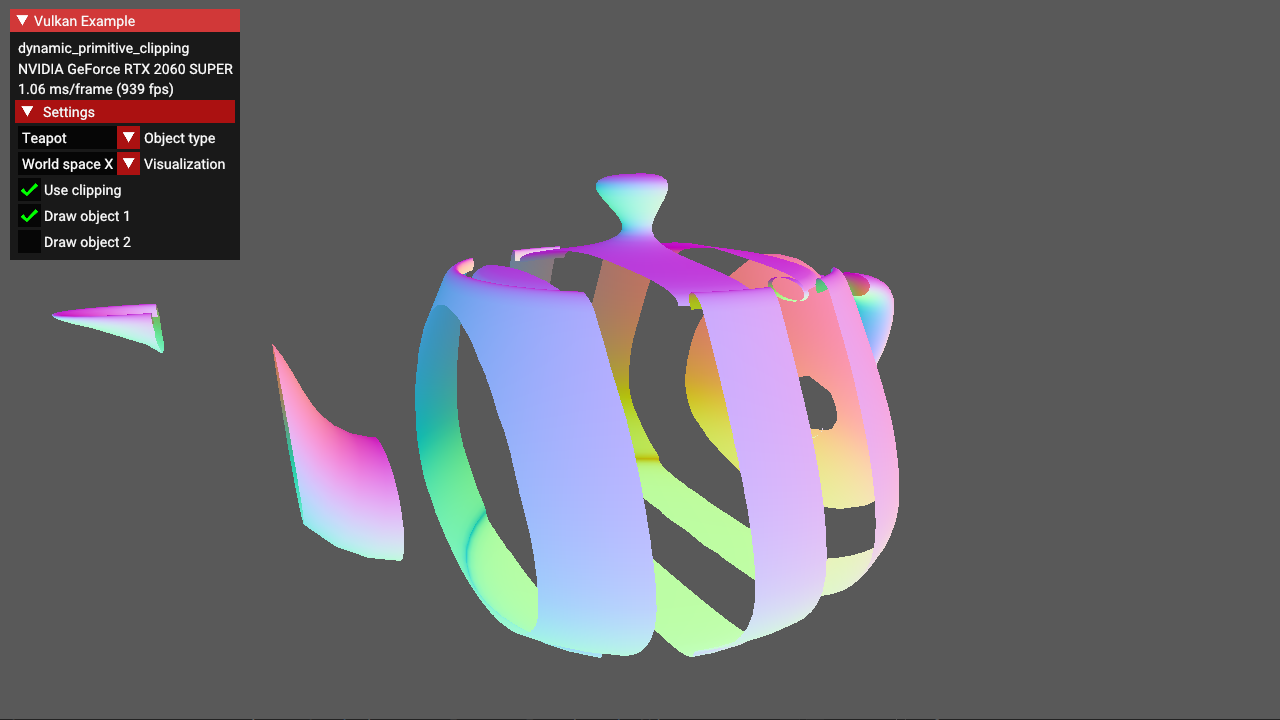
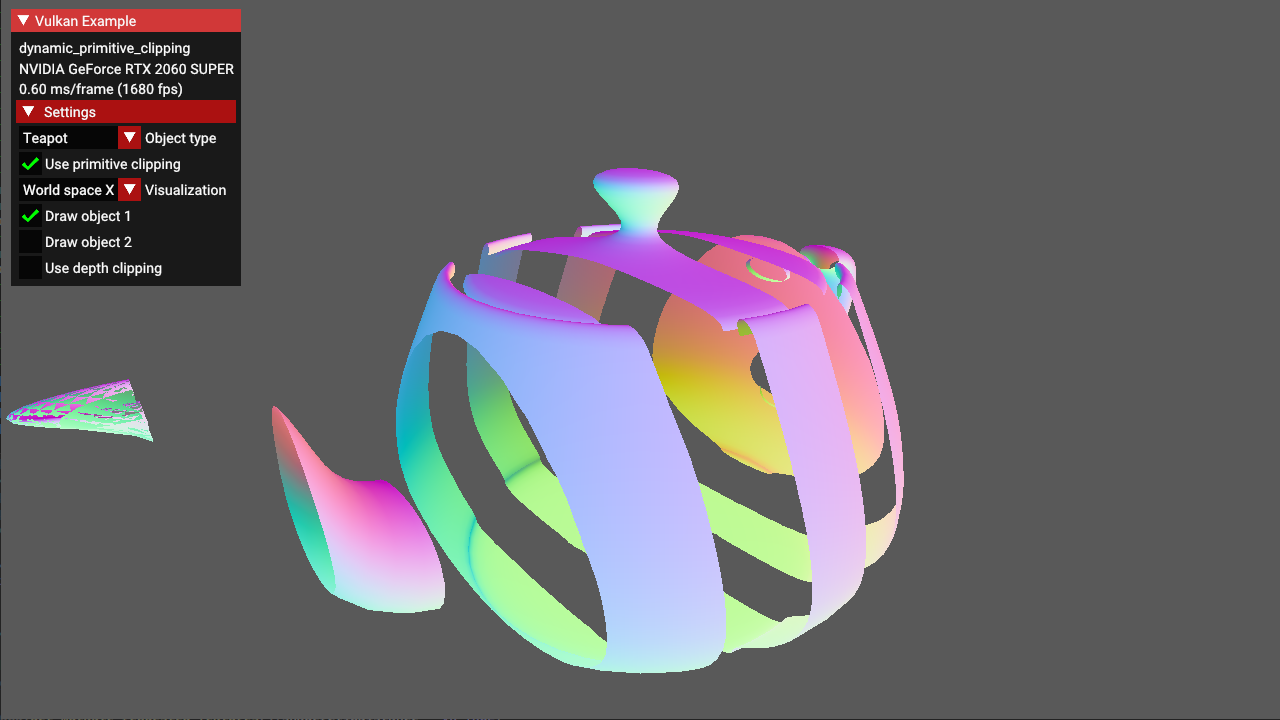
Decoupled primitive clipping from depth clipping.
Added primitive clipping using half-spaces.
Updated documentation to contain latest changes.

Changed region(s): [[0.1875, 0.2139, 0.7188, 0.9472], [0.0, 0.0, 0.1875, 0.4889], [0.0, 0.5194, 0.125, 0.6111]]

diff --git a/samples/extensions/dynamic_primitive_clipping/dynamic_primitive_clipping.cpp b/samples/extensions/dynamic_primitive_clipping/dynamic_primitive_clipping.cpp
@@ -25,7 +25,10 @@ DynamicPrimitiveClipping::DynamicPrimitiveClipping()
 {
 	title = "Dynamic primitive clipping";
 	set_api_version(VK_API_VERSION_1_1);
+
+	// Extensions required by vkCmdSetDepthClipEnableEXT().
 	add_instance_extension(VK_KHR_GET_PHYSICAL_DEVICE_PROPERTIES_2_EXTENSION_NAME);
+	add_device_extension(VK_EXT_DEPTH_CLIP_ENABLE_EXTENSION_NAME);
 	add_device_extension(VK_EXT_EXTENDED_DYNAMIC_STATE_3_EXTENSION_NAME);
 }
 
@@ -46,18 +49,21 @@ bool DynamicPrimitiveClipping::prepare(const vkb::ApplicationOptions &options)
 		return false;
 	}
 
-	// Setup camera position and load assets from file
+	// Setup camera position.
 	camera.type = vkb::CameraType::LookAt;
 	camera.set_position(glm::vec3(0.0f, 0.0f, -50.0f));
 	camera.set_rotation(glm::vec3(0.0f, 180.0f, 0.0f));
-	camera.set_perspective(60.0f, static_cast<float>(width) / static_cast<float>(height), 0.1f, 256.0f);
 
+	// Near plane is set far away from observer position in order to show depth clipping better.
+	camera.set_perspective(60.0f, static_cast<float>(width) / static_cast<float>(height), 30.f, 256.0f);
+
+	// Load assets from file.
 	load_assets();
 
-	// Setup parameters used on CPU
-	visualization_names = {"World space X", "World space Y", "Clip space X", "Clip space Y", "Euclidean distance to center", "Manhattan distance to center", "Chebyshev distance to center"};
+	// Setup parameters used on CPU.
+	visualization_names = {"World space X", "World space Y", "Half-space in world space coordinates", "Half-space in world space coordinates", "Clip space X", "Clip space Y", "Euclidean distance to center", "Manhattan distance to center", "Chebyshev distance to center"};
 
-	// Setup Vulkan objects required by GPU
+	// Setup Vulkan objects required by GPU.
 	prepare_uniform_buffers();
 	setup_layouts();
 	prepare_pipelines();
@@ -71,11 +77,17 @@ bool DynamicPrimitiveClipping::prepare(const vkb::ApplicationOptions &options)
 
 void DynamicPrimitiveClipping::request_gpu_features(vkb::PhysicalDevice &gpu)
 {
-	// Following features must be enabled in order for vkCmdSetDepthClipEnableEXT() to work
+	// shaderClipDistance feature is required in order to gl_ClipDistance builtin shader variable to work.
 	if (gpu.get_features().shaderClipDistance)
 	{
 		gpu.get_mutable_requested_features().shaderClipDistance = VK_TRUE;
 	}
+	else
+	{
+		throw vkb::VulkanException(VK_ERROR_FEATURE_NOT_PRESENT, "Selected GPU does not support gl_ClipDistance builtin shader variable");
+	}
+
+	// Features required by vkCmdSetDepthClipEnableEXT().
 	{
 		auto &features           = gpu.request_extension_features<VkPhysicalDeviceDepthClipEnableFeaturesEXT>(VK_STRUCTURE_TYPE_PHYSICAL_DEVICE_DEPTH_CLIP_ENABLE_FEATURES_EXT);
 		features.depthClipEnable = VK_TRUE;
@@ -120,38 +132,34 @@ void DynamicPrimitiveClipping::build_command_buffers()
 		// Bind the graphics pipeline.
 		vkCmdBindPipeline(cmd, VK_PIPELINE_BIND_POINT_GRAPHICS, sample_pipeline);
 
-		// Set viewport dynamically
+		// Set viewport dynamically.
 		VkViewport viewport = vkb::initializers::viewport(static_cast<float>(width), static_cast<float>(height), 0.0f, 1.0f);
 		vkCmdSetViewport(cmd, 0, 1, &viewport);
 
-		// Set scissor dynamically
+		// Set scissor dynamically.
 		VkRect2D scissor = vkb::initializers::rect2D(width, height, 0, 0);
 		vkCmdSetScissor(cmd, 0, 1, &scissor);
 
-		// Enable primitive clipping dynamically (if required)
-		if (params.useClipping)
+		// Enable depth clipping dynamically as defined in GUI.
+		if (params.useDepthClipping)
 			vkCmdSetDepthClipEnableEXT(cmd, VK_TRUE);
 		else
 			vkCmdSetDepthClipEnableEXT(cmd, VK_FALSE);
 
-		// Draw object once using descriptor_positive
+		// Draw object once using descriptor_positive.
 		if (params.drawObject[0])
 		{
 			vkCmdBindDescriptorSets(cmd, VK_PIPELINE_BIND_POINT_GRAPHICS, pipeline_layouts.models, 0, 1, &descriptor_sets.descriptor_positive, 0, NULL);
 			draw_model(models.objects[models.object_index], cmd);
 		}
 
-		// Draw the same object for the second time, but this time using descriptor_negative
-		// Skip second rendering if clipping is disabled.
-		if (params.drawObject[1] && params.useClipping)
+		// Draw the same object for the second time, but this time using descriptor_negative.
+		// Skip second rendering if primitive clipping is turned off by user in a GUI.
+		if (params.drawObject[1] && params.usePrimitiveClipping)
 		{
 			vkCmdBindDescriptorSets(cmd, VK_PIPELINE_BIND_POINT_GRAPHICS, pipeline_layouts.models, 0, 1, &descriptor_sets.descriptor_negative, 0, NULL);
 			draw_model(models.objects[models.object_index], cmd);
 		}
-
-		// Turn the primitive clipping off, so that it does not interfere with further rendering ( GUI rendering comes next )
-		// It may interfere, because using dynamic states turns Vulkan pipelines into state machines similar to OpenGL.
-		vkCmdSetDepthClipEnableEXT(cmd, VK_FALSE);
 
 		// Draw user interface.
 		draw_ui(draw_cmd_buffers[i]);
@@ -187,12 +195,13 @@ void DynamicPrimitiveClipping::on_update_ui_overlay(vkb::Drawer &drawer)
 			update_uniform_buffers();
 			rebuild_command_buffers();
 		}
+		if (drawer.checkbox("Use primitive clipping", &params.usePrimitiveClipping))
+		{
+			update_uniform_buffers();
+			rebuild_command_buffers();
+		}
 		if (drawer.combo_box("Visualization", &params.visualization, visualization_names))
 		{
-		}
-		if (drawer.checkbox("Use clipping", &params.useClipping))
-		{
-			rebuild_command_buffers();
 		}
 		if (drawer.checkbox("Draw object 1", &params.drawObject[0]))
 		{
@@ -202,12 +211,16 @@ void DynamicPrimitiveClipping::on_update_ui_overlay(vkb::Drawer &drawer)
 		{
 			rebuild_command_buffers();
 		}
+		if (drawer.checkbox("Use depth clipping", &params.useDepthClipping))
+		{
+			rebuild_command_buffers();
+		}
 	}
 }
 
 void DynamicPrimitiveClipping::load_assets()
 {
-	// Load three different models. User may pick them from GUI menu.
+	// Load three different models. User may pick them from GUI.
 	std::vector<std::string> filenames = {"teapot.gltf", "torusknot.gltf", "geosphere.gltf"};
 	model_names                        = {"Teapot", "Torusknot", "Sphere"};
 	for (auto file : filenames)
@@ -216,7 +229,7 @@ void DynamicPrimitiveClipping::load_assets()
 		models.objects.emplace_back(std::move(object));
 	}
 
-	// Setup model transformation matrices
+	// Setup model transformation matrices.
 	auto teapot_matrix = glm::mat4(1.0f);
 	teapot_matrix      = glm::scale(teapot_matrix, glm::vec3(10.0f, 10.0f, 10.0f));
 	teapot_matrix      = glm::rotate(teapot_matrix, glm::radians(180.0f), glm::vec3(1.0f, 0.0f, 0.0f));
@@ -237,7 +250,7 @@ void DynamicPrimitiveClipping::setup_layouts()
 
 	VK_CHECK(vkCreateDescriptorSetLayout(get_device().get_handle(), &descriptor_layout_create_info, nullptr, &descriptor_set_layouts.models));
 
-	// Pipeline layout contains above defined descriptor set layout
+	// Pipeline layout contains above defined descriptor set layout.
 	VkPipelineLayoutCreateInfo pipeline_layout_create_info =
 	    vkb::initializers::pipeline_layout_create_info(
 	        &descriptor_set_layouts.models,
@@ -248,13 +261,12 @@ void DynamicPrimitiveClipping::setup_layouts()
 
 void DynamicPrimitiveClipping::prepare_pipelines()
 {
-	// Vertex bindings an attributes for model rendering
-	// Binding description
+	// Binding description.
 	std::vector<VkVertexInputBindingDescription> vertex_input_bindings = {
 	    vkb::initializers::vertex_input_binding_description(0, sizeof(Vertex), VK_VERTEX_INPUT_RATE_VERTEX),
 	};
 
-	// Attribute descriptions
+	// Attribute descriptions.
 	std::vector<VkVertexInputAttributeDescription> vertex_input_attributes = {
 	    vkb::initializers::vertex_input_attribute_description(0, 0, VK_FORMAT_R32G32B32_SFLOAT, 0),                         // Position
 	    vkb::initializers::vertex_input_attribute_description(0, 1, VK_FORMAT_R32G32B32_SFLOAT, sizeof(float) * 3u),        // Normal
@@ -281,7 +293,7 @@ void DynamicPrimitiveClipping::prepare_pipelines()
 	// We will have one viewport and scissor box.
 	VkPipelineViewportStateCreateInfo viewport = vkb::initializers::pipeline_viewport_state_create_info(1, 1);
 
-	// Enable depth testing
+	// Enable depth testing.
 	VkPipelineDepthStencilStateCreateInfo depth_stencil = vkb::initializers::pipeline_depth_stencil_state_create_info(VK_TRUE, VK_TRUE, VK_COMPARE_OP_LESS);
 
 	// No multisampling.
@@ -292,10 +304,8 @@ void DynamicPrimitiveClipping::prepare_pipelines()
 	std::array<VkDynamicState, 3>    dynamics{VK_DYNAMIC_STATE_VIEWPORT, VK_DYNAMIC_STATE_SCISSOR, VK_DYNAMIC_STATE_DEPTH_CLIP_ENABLE_EXT};
 	VkPipelineDynamicStateCreateInfo dynamic = vkb::initializers::pipeline_dynamic_state_create_info(dynamics.data(), vkb::to_u32(dynamics.size()));
 
-	// Load our SPIR-V shaders.
+	// Load shaders.
 	std::array<VkPipelineShaderStageCreateInfo, 2> shader_stages{};
-
-	// Vertex stage of the pipeline
 	shader_stages[0] = load_shader("dynamic_primitive_clipping/primitive_clipping.vert", VK_SHADER_STAGE_VERTEX_BIT);
 	shader_stages[1] = load_shader("dynamic_primitive_clipping/primitive_clipping.frag", VK_SHADER_STAGE_FRAGMENT_BIT);
 
@@ -315,10 +325,10 @@ void DynamicPrimitiveClipping::prepare_pipelines()
 	VK_CHECK(vkCreateGraphicsPipelines(get_device().get_handle(), pipeline_cache, 1, &pipeline_create_info, nullptr, &sample_pipeline));
 }
 
-// Prepare and initialize uniform buffer containing shader uniforms
+// Prepare and initialize uniform buffer containing shader uniforms.
 void DynamicPrimitiveClipping::prepare_uniform_buffers()
 {
-	// We will render the same object twice using two different sets of parameters called "positive" and "negative"
+	// We will render the same object twice using two different sets of parameters called "positive" and "negative".
 	uniform_buffers.buffer_positive = std::make_unique<vkb::core::Buffer>(get_device(),
 	                                                                      sizeof(UBOVS),
 	                                                                      VK_BUFFER_USAGE_UNIFORM_BUFFER_BIT,
@@ -327,24 +337,26 @@ void DynamicPrimitiveClipping::prepare_uniform_buffers()
 	                                                                      sizeof(UBOVS),
 	                                                                      VK_BUFFER_USAGE_UNIFORM_BUFFER_BIT,
 	                                                                      VMA_MEMORY_USAGE_CPU_TO_GPU);
+
 	update_uniform_buffers();
 }
 
 void DynamicPrimitiveClipping::update_uniform_buffers()
 {
-	ubo_positive.projection          = camera.matrices.perspective;
-	ubo_positive.view                = camera.matrices.view;
-	ubo_positive.model               = models.transforms[models.object_index];
-	ubo_positive.colorTransformation = glm::vec4(1.0f, 0.0f, 0.0f, 0.0f);
-	ubo_positive.sceneTransformation = glm::ivec2(params.visualization, 1);
+	ubo_positive.projection           = camera.matrices.perspective;
+	ubo_positive.view                 = camera.matrices.view;
+	ubo_positive.model                = models.transforms[models.object_index];
+	ubo_positive.colorTransformation  = glm::vec4(1.0f, 0.0f, 0.0f, 0.0f);
+	ubo_positive.sceneTransformation  = glm::ivec2(params.visualization, 1);
+	ubo_positive.usePrimitiveClipping = params.usePrimitiveClipping ? 1.0f : -1.0f;
 	uniform_buffers.buffer_positive->convert_and_update(ubo_positive);
 
-	ubo_negative.projection          = camera.matrices.perspective;
-	ubo_negative.view                = camera.matrices.view;
-	ubo_negative.model               = models.transforms[models.object_index];
-	ubo_negative.colorTransformation = glm::vec4(-1.0f, 1.0f, 0.0f, 0.0f);
-	ubo_negative.sceneTransformation = glm::ivec2(params.visualization, -1);
-
+	ubo_negative.projection           = camera.matrices.perspective;
+	ubo_negative.view                 = camera.matrices.view;
+	ubo_negative.model                = models.transforms[models.object_index];
+	ubo_negative.colorTransformation  = glm::vec4(-1.0f, 1.0f, 0.0f, 0.0f);
+	ubo_negative.sceneTransformation  = glm::ivec2(params.visualization, -1);
+	ubo_negative.usePrimitiveClipping = params.usePrimitiveClipping ? 1.0f : -1.0f;
 	uniform_buffers.buffer_negative->convert_and_update(ubo_negative);
 }
 

diff --git a/samples/extensions/dynamic_primitive_clipping/dynamic_primitive_clipping.h b/samples/extensions/dynamic_primitive_clipping/dynamic_primitive_clipping.h
@@ -60,19 +60,21 @@ class DynamicPrimitiveClipping : public ApiVulkanSample
 	// sample parameters used on CPU side
 	struct Params
 	{
-		bool    useClipping   = true;
-		bool    drawObject[2] = {true, true};
-		int32_t visualization = 0;
+		bool    usePrimitiveClipping = true;
+		bool    drawObject[2]        = {true, true};
+		int32_t visualization        = 0;
+		bool    useDepthClipping     = false;
 	} params;
 
 	// parameters sent to shaders through uniform buffers
 	struct UBOVS
 	{
-		glm::mat4  projection;
-		glm::mat4  view;
-		glm::mat4  model;
-		glm::vec4  colorTransformation;
-		glm::ivec2 sceneTransformation;
+		alignas(16) glm::mat4 projection;
+		alignas(16) glm::mat4 view;
+		alignas(16) glm::mat4 model;
+		alignas(16) glm::vec4 colorTransformation;
+		alignas(8) glm::ivec2 sceneTransformation;
+		alignas(4) float usePrimitiveClipping;
 	} ubo_positive, ubo_negative;
 
 	struct

diff --git a/samples/extensions/ray_queries/ray_queries.cpp b/samples/extensions/ray_queries/ray_queries.cpp
@@ -1,4 +1,4 @@
-/* Copyright (c) 2021-2023, Holochip Corporation
+/* Copyright (c) 2021-2024, Holochip Corporation
  *
  * SPDX-License-Identifier: Apache-2.0
  *

diff --git a/samples/extensions/descriptor_buffer_basic/descriptor_buffer_basic.cpp b/samples/extensions/descriptor_buffer_basic/descriptor_buffer_basic.cpp
@@ -1,4 +1,4 @@
-/* Copyright (c) 2023, Sascha Willems
+/* Copyright (c) 2024, Sascha Willems
  *
  * SPDX-License-Identifier: Apache-2.0
  *
